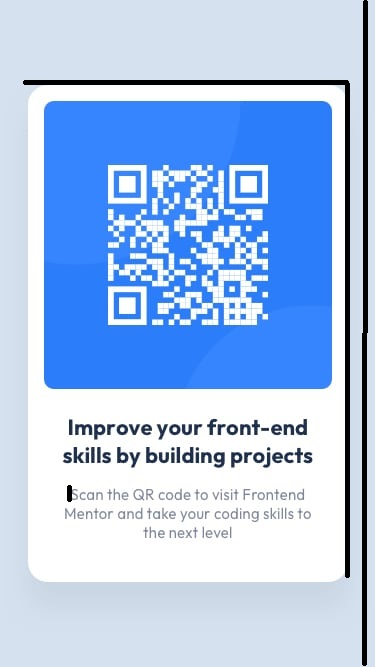
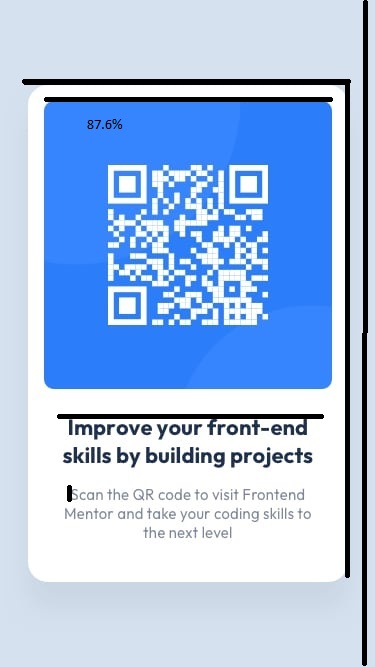
update

Changed region(s): [[0.1173, 0.1199, 0.88, 0.2099], [0.1467, 0.5997, 0.88, 0.6297]]

diff --git a/style.css b/style.css
@@ -10,7 +10,7 @@
     
     font-size: 15px;
     text-align: center;
-    display:inline-block;
+    display:block;
     width:21.5rem;
     height: 33rem;
     
@@ -87,5 +87,8 @@
   width:91%;
   padding-left: 1%;
   padding-right: 1%;
+ }
+ img{
+  width:87.6%;
  }
   }
